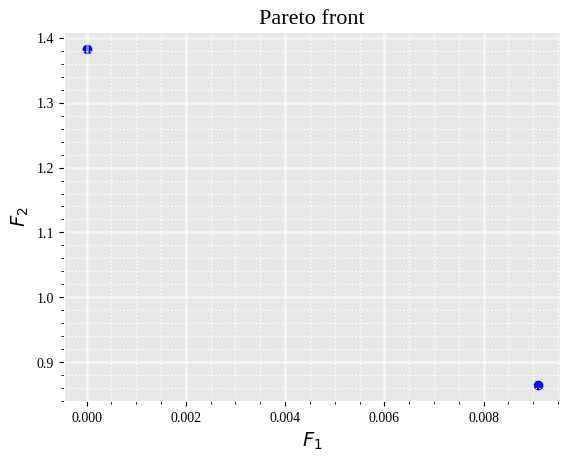
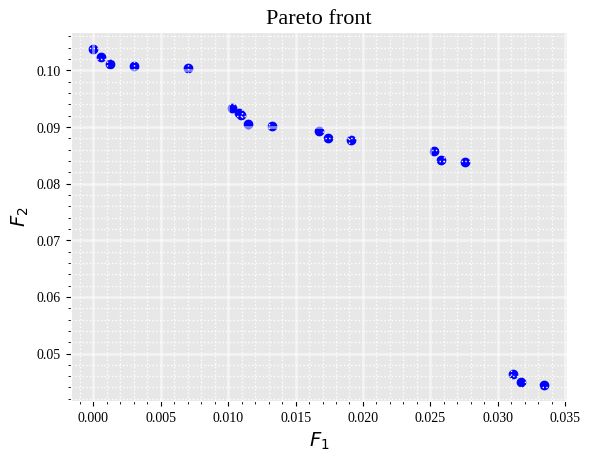
final_constraints

diff --git a/src/main.py b/src/main.py
@@ -35,7 +35,7 @@ starting_population = np.column_stack([ASSIGNED_TIMES, ASSIGNED_RUNWAY])
 
 # =============================================== DEFINE OPTIMISER
 POP_SIZE = 100
-GENERATIONS = 200
+GENERATIONS = 2000
 
 solver = PlaneOptimiser(starting_population,
                         plane_parameters,
